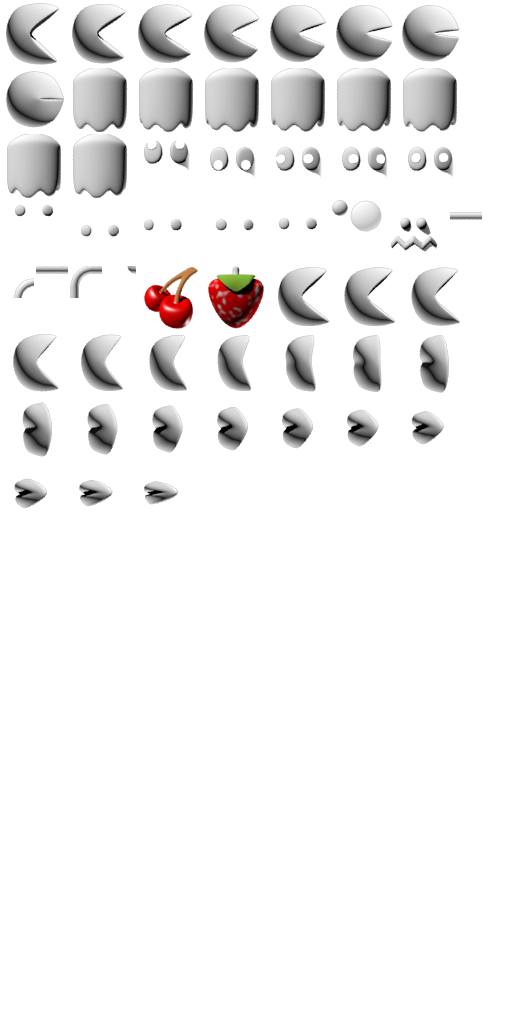
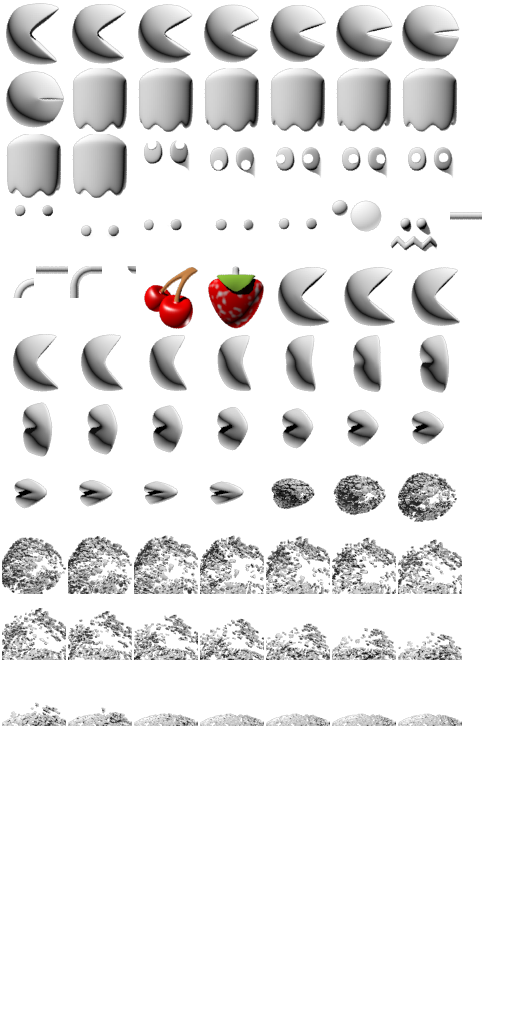
Pacman can now die, and power pellet flashes (most of the time [not when tilegrid is paused]).

Changed region(s): [[0.0, 0.4375, 0.9062, 0.6562], [0.0, 0.6875, 0.9062, 0.7188]]

diff --git a/Pacman/Scenes/LevelScene.cs b/Pacman/Scenes/LevelScene.cs
@@ -172,21 +172,10 @@ namespace Pacman.Scenes
             _tileGrid.AddComponent(_mouse);
 
             _debugHelper = new DebugHelper();
-            _debugHelper.AddLine("Self Position: ", Position);
-            _debugHelper.AddLine("TileGrid Position", _tileGrid.Position);
-            _debugHelper.AddLine("Pacman Position: ", _pacman.Position);
-            _debugHelper.AddLine("Pacman Tile Position: ", _pacman.TilePosition);
-            _debugHelper.AddLine("Pacman Orientation: ", _pacman.Orientation);
-            _debugHelper.AddLine("Pacman Rotation: ", _pacman.Rotation);
-            _debugHelper.AddLine("Pacman Velocity: ", _pacman.Velocity);
-            _debugHelper.AddLine("Blinky Tile Position: ", _blinky.TilePosition);
-            _debugHelper.AddLine("Blinky Target Position: ", _blinky.Target.Position);
-            _debugHelper.AddLine("Blinky Immediate Target Position: ", _blinky.ImmediateTarget.Position);
-            _debugHelper.AddLine("Blinky Direction: ", _blinky.Direction);
             _debugHelper.AddLine("Mouse Position: ", _mouse.Position);
             _debugHelper.AddLine("Mouse Tile Position: ", _mouseTilePosition);
             _debugHelper.AddLine("Mouse Cursor Position", InputHelper.MousePosition);
-            AddComponent(_debugHelper);
+            //AddComponent(_debugHelper);
 
             Pause();
             PerformWithDelay(2000, Resume);
@@ -499,8 +488,15 @@ namespace Pacman.Scenes
                 _pauseTimer.ClockReachedLimit += OnFrightenedEatenResume;
                 AddComponent(_pauseTimer);
             }
-            //else if (ghost.CurrentState == GhostState.CHASE || ghost.CurrentState == GhostState.SCATTER)
-            //     RestartLevel();
+            else if (ghost.CurrentGhostState == GhostState.NORMAL)
+            {
+                _pacman.Die();
+                _blinky.RemoveSelf();
+                _pinky.RemoveSelf();
+                _inky.RemoveSelf();
+                _clyde.RemoveSelf();
+                PerformWithDelay(3000, RestartLevel);
+            }
         }
 
         private void OnFrightenedEatenResume()

diff --git a/Pacman/Scenes/AnimationTest.cs b/Pacman/Scenes/AnimationTest.cs
@@ -20,7 +20,7 @@ namespace Pacman.Scenes
 
             Translate(35, 35);
 
-            for (var i = 0; i < 4; i++)
+            for (var i = 0; i < 5; i++)
             {
                 DisplayObject ghostGroup = new DisplayObject();
 
@@ -42,6 +42,7 @@ namespace Pacman.Scenes
             var pinky = (_allSprites[1] as DisplayObject)[0] as AnimatedSpriteObject;
             var inky = (_allSprites[2] as DisplayObject)[0] as AnimatedSpriteObject;
             var clyde = (_allSprites[3] as DisplayObject)[0] as AnimatedSpriteObject;
+            var eyesBody = (_allSprites[4] as DisplayObject)[0] as AnimatedSpriteObject;
 
             blinky.AddSequence("BlinkyUp", 8, 8, 250);
             blinky.Tint = Color.Red;
@@ -55,6 +56,7 @@ namespace Pacman.Scenes
             clyde.AddSequence("ClydeUp", 8, 8, 250);
             clyde.Tint = Color.Orange;
 
+            eyesBody.RemoveSelf();
 
             var frightenedGroup = new DisplayObject();
             var frightenedGhost = new AnimatedSpriteObject("pacman");
@@ -86,7 +88,7 @@ namespace Pacman.Scenes
             powerPellet.AddSequence("PowerPellet", 27, 1, 10000);
 
             var pacmanDie = new AnimatedSpriteObject("pacman");
-            pacmanDie.AddSequence("PacmanDie", 36, 20, 1500);
+            pacmanDie.AddSequence("PacmanDie", 36, 45, 2000, 1);
             pacmanDie.Tint = Color.Yellow;
 
             _allSprites.Add(frightenedGroup);
@@ -112,6 +114,8 @@ namespace Pacman.Scenes
             if (InputHelper.IsPressed(Keys.T) || InputHelper.IsPressed(Keys.Q))
             {
                 Stage.GotoScene("Menu");
+                Stage.UnloadScene(this);
+                Stage.LoadScene(new AnimationTest());
             }
             else if (InputHelper.IsPressed(Keys.Q) || InputHelper.IsPressed(Keys.Escape))
             {

diff --git a/Pacman/Objects/PacmanObject.cs b/Pacman/Objects/PacmanObject.cs
@@ -26,7 +26,7 @@ namespace Pacman.Objects
         Target _target;
         Position _startPosition;
 
-        public PacmanObject(TileGrid tileGrid) 
+        public PacmanObject(TileGrid tileGrid)
         {
             _tileGrid = tileGrid;
         }
@@ -40,6 +40,17 @@ namespace Pacman.Objects
             result.SetupUpdaters();
             tileGrid.AddComponent(result);
             return result;
+        }
+
+        public void Die()
+        {
+            List<GameObject> components = new List<GameObject>() { _velocity, _rotation, _steering, _wrap, _target };
+            foreach (GameObject component in components)
+                component.RemoveSelf();
+
+            Rotate(0);
+            _animatedSprite.SetSequence("Die", true);
+            _target.ChangeState(Target.FIXED);
         }
 
         private void SetupTransforms()
@@ -78,10 +89,10 @@ namespace Pacman.Objects
 
         private void SetupAnimations()
         {
-            
+
             _animatedSprite = new AnimatedSpriteObject("pacman");
             _animatedSprite.AddSequence("Chomp", new[] { 0, 1, 2, 3, 4, 5, 6, 7, 6, 5, 4, 3, 2, 1 }, 200);
-            _animatedSprite.AddSequence("Die", 0, 11, 1000);
+            _animatedSprite.AddSequence("Die", 36, 45, 2000, 1);
             _animatedSprite.SetSequence("Chomp");
             _animatedSprite.Tint = Color.Yellow;
             AddComponent(_animatedSprite);

diff --git a/Pacman/Objects/Pellets.cs b/Pacman/Objects/Pellets.cs
@@ -4,6 +4,7 @@ using System.Linq;
 using System.Text;
 using Pacman.Engine.Display;
 using Pacman.Engine.Helpers;
+using Microsoft.Xna.Framework;
 
 namespace Pacman.Objects
 {
@@ -62,10 +63,29 @@ namespace Pacman.Objects
 
         public class PowerPellet : Pellet
         {
+            const int _flashRate = 167;
+            int _elapsedTime;
+
             public PowerPellet(TileGrid tileGrid)
                 : base(tileGrid)
             {
                 ChangeIndex(27);
+            }
+
+            public override void Update(GameTime gameTime)
+            {
+                base.Update(gameTime);
+                Flash(gameTime.ElapsedGameTime.Milliseconds);
+            }
+
+            private void Flash(int elapsedTime)
+            {
+                _elapsedTime += elapsedTime;
+                if (_elapsedTime >= _flashRate)
+                {
+                    Visible = !Visible;
+                    _elapsedTime = 0;
+                }
             }
         }
     }

diff --git a/Pacman/Scenes/MenuScene.cs b/Pacman/Scenes/MenuScene.cs
@@ -18,8 +18,8 @@ namespace Pacman.Scenes
             Translate(32, 32);
 
             var pacman = new ImageObject("pacman");
-            pacman.Translate(256, 256);
-            pacman.Resize(1.1f);
+            pacman.Resize(0.65f);
+            pacman.Translate(256,300);
             AddComponent(pacman);
 
             var pacman2 = new SpriteObject("pacman", 8);
